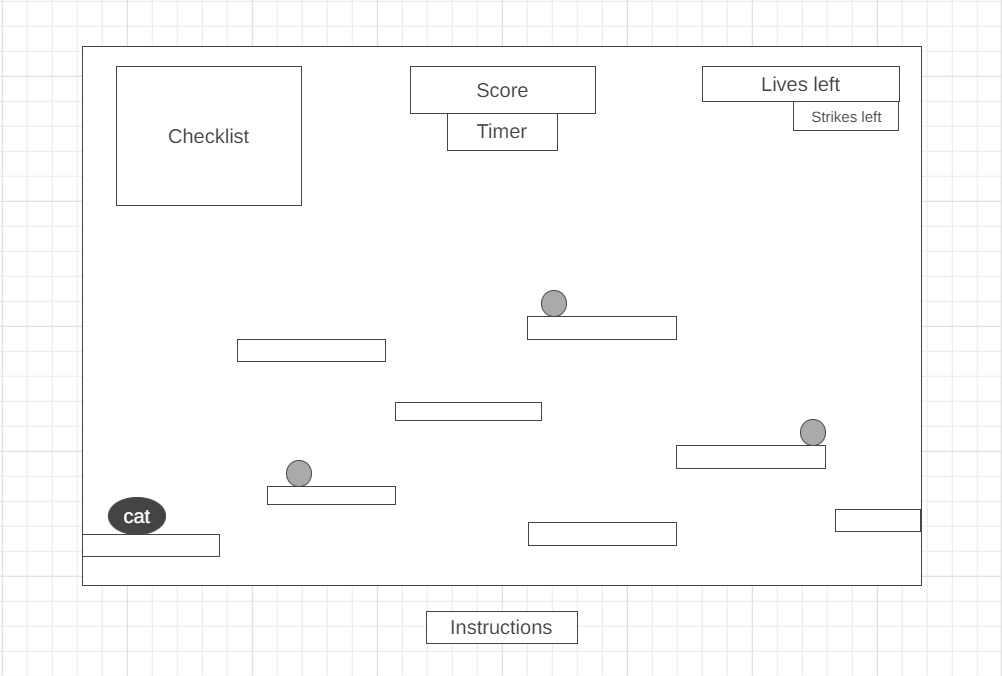
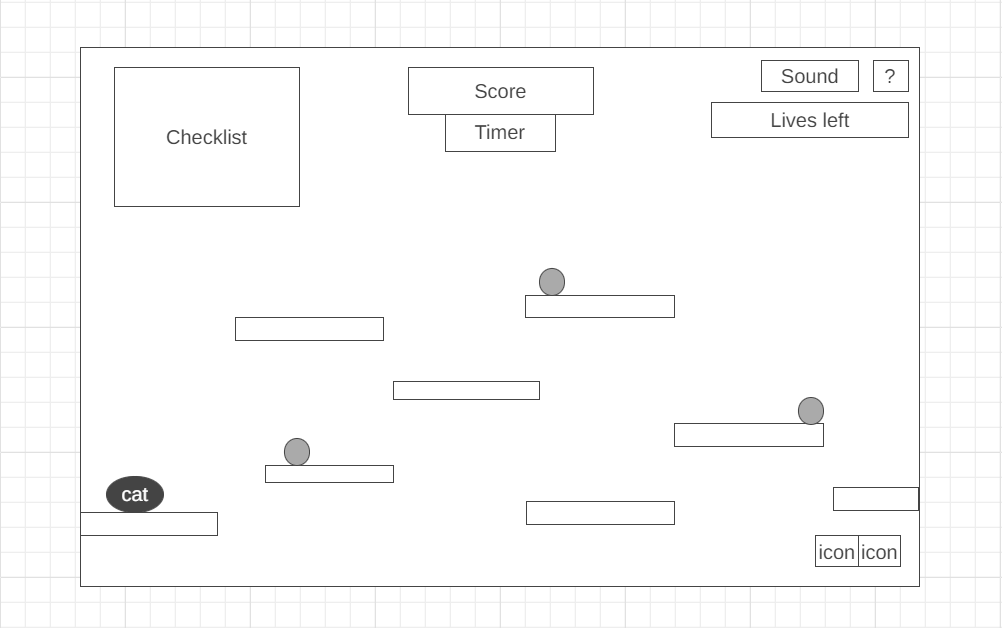
readme changes

diff --git a/README.md b/README.md
@@ -1,28 +1,45 @@
-# Background
-Cat Collector is a game where you help a cat with its errands by collecting everything on it's to-do list. However, this cat is very peculiar so you must gather these items in the order listed. If you try to collect items out of order, you will receive a warning. When you run out of warnings, you will lose a life. If collected properly, you will gain points. The game ends when time is up or when you lose all your lives. There are also perils out in the wild so be careful when foraging!
+# Cat-Lector
 
-# Functionality & MVPs
-  - User can naviate the character through keys
-  - The character can collect items
-  - Stats will update according to the collected items
-  - The game ends when time is over or when there are no lives left
-  - There are obstacles to overcome
+![cat-lector-start](cat-lector-start.png)
+![cat-lector](cat-lector.png)
+
+# Description
+[Cat-Lector](https://milner-chen.github.io/js_project/) is a game where you help a cat with its errands by collecting everything on it's to-do list. However, this cat is very peculiar so you must gather these items in the order listed. You will navigate through platforms with arrow keys and collect items when you come into contact with them. If you collect items out of order, you will lose a life. If collected properly, you will gain points. The game ends when time is up or when you lose all your lives.
+<!-- There are also perils out in the wild so be careful when foraging! -->
 
 # Wireframe
 ![wireframe](./js_project_wireframe.png)
-  
+  - The help button in the upper right opens a modal with user instructions.
+  - The sound button in the upper right allows the user to mute and unmute sound effects.
+  - The nav links in the lower right lead to this project's GitHub repo and my LinkedIn.
+
 # Technologies, Libraries, APIs
-Canvas API
-Javascript
-HTML5 and CSS3
-Webpack
-npm
+- Javascript
+- Canvas API
+- HTML5 and CSS3
+- Webpack
+- npm
+
+# Functionality & MVPs
+## In Cat-Lector, users are able to:
+  - Naviate the character using the left, up, and right arrow keys.
+  - See the order in which they need to collect the items
+  - Collect items that are next on the list on contact
+  - Lose a heart when an incorrect item is touched
+  - See their current score and time
+  ## In addition, this project includes:
+  - User instructions in a modal on the initial screen
+  <!-- - There are obstacles to overcome -->
  
-# Timeline
+# Implementation Timeline
 
-## Friday Afternoon & Weekend:
+- Friday Afternoon & Weekend: Research on Canvas API, rendering and animation, and collision detection. Setup basic project structure. Render and move character with key-bindings. Implement collision detection with platforms.
+- Monday: Work on screen boundaries, implementing gravity and velocity, and collision detection with items.
+- Tuesday: Render hearts, removing hearts upon a collision. Render and update score, timer, and to-do list.
+- Wednesday: Animate character sprites. Implement game over logic, game start and restart. Add user instructions, and links.
+- Thursday: Add sound effects, styling, and final touches. Deploy to GitHub pages.
 
-- Research
+<!-- - Research
 - Setup project
 - Set up classes
 - Get the character moving
@@ -46,8 +63,8 @@ npm
 
 ## Thursday Morning:
 
-- Deploy to GitHub pages
+- Deploy to GitHub pages -->
 
-# Bonus Features
+# Future Implementations
   - Add side scrolling functionality
   - Gernerate multiple task lists
